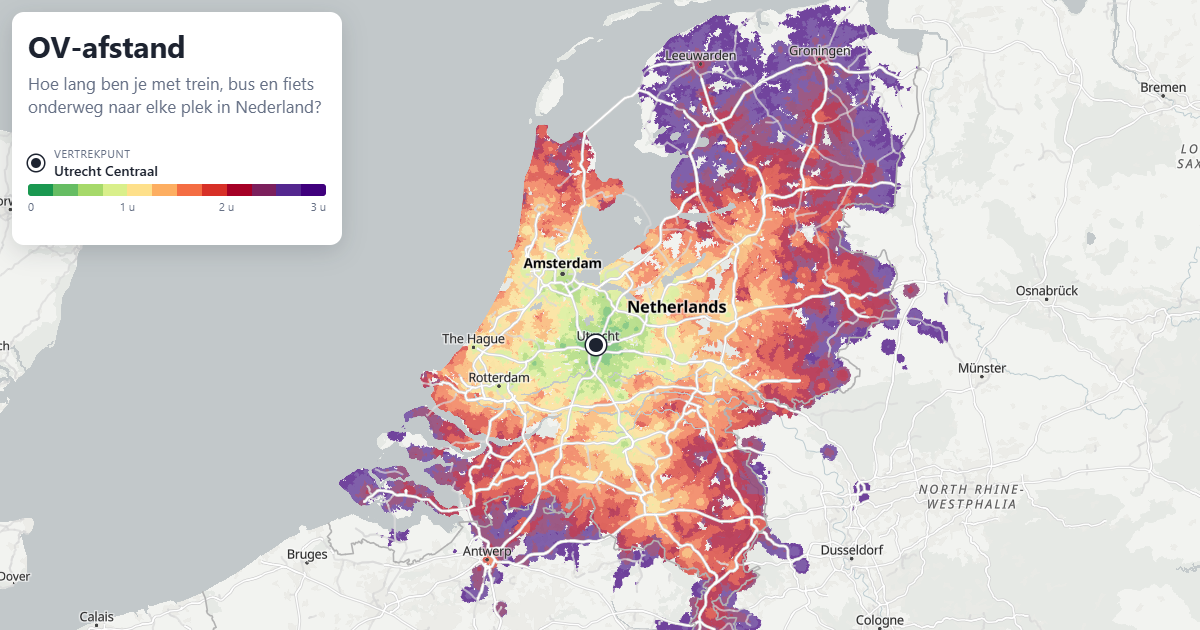
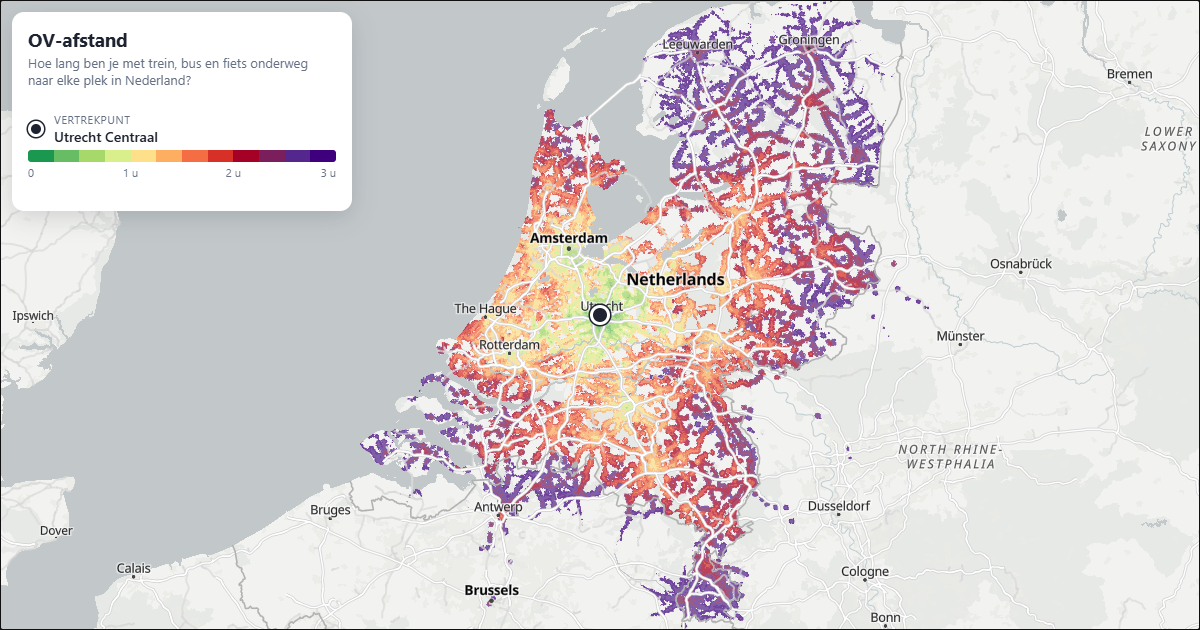
og.png opnieuw, met een script
- og.png toont nu de huidige standaardkaart (fiets bij vertrek, lopen bij
  aankomst), heel NL vanaf Utrecht C.
- web/scripts/og.mjs maakt hem met Chrome headless terwijl de preview
  draait: wacht op het fietsraster, verbergt het paneel op titel,
  vertrekpunt en legenda na, en zoomt uit tot heel NL.
- README, plan en CLAUDE.md bijgewerkt.

diff --git a/CLAUDE.md b/CLAUDE.md
@@ -8,7 +8,7 @@ Website met een kaart van NL. De heatmap toont de reistijd met OV plus fiets van
 ## Stand van zaken
 Fase 0, 1, 2 en 3 (realistisch fietsen) zijn klaar. Een eigen OSRM-server draait in WSL.
 
-De opslagvorm is gekozen: een fietsraster met 16 richtingen, 4 bits per kant, en een halte die start in 3 × 3 cellen. Dijkstra met een bucketwachtrij in de browser kost ±0,5 s voor heel NL. In proefregio's wijkt het bij <1% van de paren meer dan 5 min af van OSRM, tegen 11% voor hemelsbreed × 1,3. Het raster is gebouwd op een OSM-extract van NL plus de strook BE/DE binnen de rasterbox (`build_bike_grid.py` → `export_bike_grid.py` → `web/public/data/bike.bin.gz`, 4,25 MB). Het is ingebouwd in de web-app (`bikegrid.ts`, standaard aan). Van de 578 ponten in OSM doen er 525 mee. De rest ontbreekt door OSM zelf (laagwaterafsluiting, losse aanlegplaats). Fase 6.1 (snelle winst) is klaar op branch `fase6`: instellingen in de deellink, delen, Open Graph en favicon, uitleg, mijn locatie en voorbeeldchips. Fase 6.2 (bezoekers meten met GoatCounter, `ovafstand.goatcounter.com`) is klaar. Fase 6.3 (smartphone: bottom sheet, reisinfo in de sheet) is klaar, en werkt op een echt toestel. Daar zweeft de legenda wel boven de navigatiebalk onderin (voor later). Fase 6.4 deel 1 (uurmodel, tijdschuif) staat in main. Op branch `fase6-nacht` komen daar bij: de nachtlijnen, 48 halve uren, vloeiend afspelen (frames vooruit, overgang) en het diagram "Binnen 1 uur bereikbaar". Op branch `fase6-vergelijk` (vanaf `fase6-nacht`) staat 6.5 deel 1: twee vertrekpunten vergelijken, stand "Voor ons allebei" (max van A en B), ook met de tijdschuif. Daar staat ook 6.7 stap 1: het paneel inklappen, en de reisinfo vast in het paneel na een klik. 6.5 deel 2, de stand "Verschil" (A − B, tweekleurig), en 6.7 stap 2 (fiets bij vertrek/aankomst, anders lopen) stap 3 (kaart naar het dichtstbijzijnde IC-station) en stap 4 (zaterdag en zondag) zijn daar ook klaar. Daarmee is 6.7 af. Op branch `verkenning-4-5` (vanaf `fase6-vergelijk`) zijn fase 4 en 5 verkend, zonder wijzigingen aan de app (zie "Verkenning fase 4 en 5" in het plan). CSA kost 6–12 ms per run, en de connections per rit zijn 0,6–0,8 MB gzip per dag. BE en DE in een strook van 20 km geven +42% connections. De NL-feed bevat al de grenslijnen van De Lijn. Op branch `fase4` (vanaf `verkenning-4-5`) staat fase 4 stap 1: met een vertrektijd de keuze "Gemiddelde wachttijd" (uurmodel) of "Echte vertrektijden" (CSA, `csa.ts`), deellink `&r=1`, met kloktijden in de reisinfo. Het geheugen is gemeten ("Geheugenmeting" in het plan): de worker houdt 144 MB vast bij de start en tot ±400 MB na gebruik. De grootste posten zijn het fietsraster (82 MB), 13,5 MB per bewaarde run en de dienstregeling (35 MB per dag). Geheugen deel 1 is klaar: het fietsraster is 31 MB (één byte per kant), met exact dezelfde uitkomst, maar 10–25% trager bij grote kaarten. Deel 2 ook: `Raster.via` is Uint16, en de worker bewaart 3 resultaten en 2 runs in de cache (afspelen met vergelijken: 403 → 270 MB). Deel 3 ook: één dienstregeling tegelijk, met `dur` (Uint16) in plaats van `arr` (na gebruik 330 → 186 MB). Alles hieronder, tot en met het geheugen, staat sinds PR #8 in main. Op branch `opruimen` (vanaf `fase4`) is `main.ts` opgedeeld in modules (zie README, structuur), met `npm run check` als vaste controle. Open: `og.png` opnieuw, de startcellen opnieuw met OSRM (voor de weekendhaltes), toegang tot GTFS van De Lijn en MIVB, en fase 4/5.
+De opslagvorm is gekozen: een fietsraster met 16 richtingen, 4 bits per kant, en een halte die start in 3 × 3 cellen. Dijkstra met een bucketwachtrij in de browser kost ±0,5 s voor heel NL. In proefregio's wijkt het bij <1% van de paren meer dan 5 min af van OSRM, tegen 11% voor hemelsbreed × 1,3. Het raster is gebouwd op een OSM-extract van NL plus de strook BE/DE binnen de rasterbox (`build_bike_grid.py` → `export_bike_grid.py` → `web/public/data/bike.bin.gz`, 4,25 MB). Het is ingebouwd in de web-app (`bikegrid.ts`, standaard aan). Van de 578 ponten in OSM doen er 525 mee. De rest ontbreekt door OSM zelf (laagwaterafsluiting, losse aanlegplaats). Fase 6.1 (snelle winst) is klaar op branch `fase6`: instellingen in de deellink, delen, Open Graph en favicon, uitleg, mijn locatie en voorbeeldchips. Fase 6.2 (bezoekers meten met GoatCounter, `ovafstand.goatcounter.com`) is klaar. Fase 6.3 (smartphone: bottom sheet, reisinfo in de sheet) is klaar, en werkt op een echt toestel. Daar zweeft de legenda wel boven de navigatiebalk onderin (voor later). Fase 6.4 deel 1 (uurmodel, tijdschuif) staat in main. Op branch `fase6-nacht` komen daar bij: de nachtlijnen, 48 halve uren, vloeiend afspelen (frames vooruit, overgang) en het diagram "Binnen 1 uur bereikbaar". Op branch `fase6-vergelijk` (vanaf `fase6-nacht`) staat 6.5 deel 1: twee vertrekpunten vergelijken, stand "Voor ons allebei" (max van A en B), ook met de tijdschuif. Daar staat ook 6.7 stap 1: het paneel inklappen, en de reisinfo vast in het paneel na een klik. 6.5 deel 2, de stand "Verschil" (A − B, tweekleurig), en 6.7 stap 2 (fiets bij vertrek/aankomst, anders lopen) stap 3 (kaart naar het dichtstbijzijnde IC-station) en stap 4 (zaterdag en zondag) zijn daar ook klaar. Daarmee is 6.7 af. Op branch `verkenning-4-5` (vanaf `fase6-vergelijk`) zijn fase 4 en 5 verkend, zonder wijzigingen aan de app (zie "Verkenning fase 4 en 5" in het plan). CSA kost 6–12 ms per run, en de connections per rit zijn 0,6–0,8 MB gzip per dag. BE en DE in een strook van 20 km geven +42% connections. De NL-feed bevat al de grenslijnen van De Lijn. Op branch `fase4` (vanaf `verkenning-4-5`) staat fase 4 stap 1: met een vertrektijd de keuze "Gemiddelde wachttijd" (uurmodel) of "Echte vertrektijden" (CSA, `csa.ts`), deellink `&r=1`, met kloktijden in de reisinfo. Het geheugen is gemeten ("Geheugenmeting" in het plan): de worker houdt 144 MB vast bij de start en tot ±400 MB na gebruik. De grootste posten zijn het fietsraster (82 MB), 13,5 MB per bewaarde run en de dienstregeling (35 MB per dag). Geheugen deel 1 is klaar: het fietsraster is 31 MB (één byte per kant), met exact dezelfde uitkomst, maar 10–25% trager bij grote kaarten. Deel 2 ook: `Raster.via` is Uint16, en de worker bewaart 3 resultaten en 2 runs in de cache (afspelen met vergelijken: 403 → 270 MB). Deel 3 ook: één dienstregeling tegelijk, met `dur` (Uint16) in plaats van `arr` (na gebruik 330 → 186 MB). Alles hieronder, tot en met het geheugen, staat sinds PR #8 in main. Op branch `opruimen` (vanaf `fase4`) is `main.ts` opgedeeld in modules (zie README, structuur), met `npm run check` als vaste controle. Open: de startcellen opnieuw met OSRM (voor de weekendhaltes), toegang tot GTFS van De Lijn en MIVB, en fase 4/5.
 
 **Afspraak:** na elke afgeronde stap de resultaten en de volgende stap bijwerken in ONTWIKKELPLAN.md, en de stand van zaken hier.
 
@@ -69,7 +69,7 @@ De opslagvorm is gekozen: een fietsraster met 16 richtingen, 4 bits per kant, en
 - **Vergelijken (6.5):** punt B (`pointB`, deellink `&p2=lat,lon,naam`). De worker rekent A en B apart (`cachedRun`, de laatste vier runs) en kleurt per cel de langste van de twee ("Voor ons allebei") of het verschil A − B ("Verschil", `compareMode`, `colorizeDiff` in `raster.ts`; wisselen rekent niets opnieuw). `editing` bepaalt welk punt klikken, zoeken en de voorbeelden verplaatsen; klik op rij A of B om te wisselen.
 - **IC-kaart (6.7 stap 3):** `source` = `"point"` of `"ic"` (deellink `&k=ic`). Bij `"ic"` start de zoektocht met tijd 0 op alle IC-stations (`icStations` in `worker.ts`: overdag een trein "Intercity…", niet `IFF:NS_INT`; 95 stuks). Het laatste stuk volgt dan `bikeStart`/`directMaxKm`, want het ligt aan de kant van de plek zelf. De reisinfo draait de route om (`icHtml`). Zoeken toont daar de reisinfo in plaats van het vertrekpunt te verplaatsen.
 - **Deellink:** `#lat,lon,naam&w=…&v=…&b=…&d=…&t=…&f=…&u=…&r=1&s=…&a=…&dag=za&k=ic&p2=…&m=diff`, met alleen afwijkingen van `DEFAULTS` in `main.ts`. Ongeldige waarden worden genegeerd (zie README).
-- `og:image` wijst naar de volledige Pages-URL (`corvanessen.github.io/OVafstand/og.png`).
+- `og:image` wijst naar de volledige Pages-URL (`corvanessen.github.io/OVafstand/og.png`). `og.png` maak je opnieuw met `node web/scripts/og.mjs` terwijl de preview draait (zie README).
 - **Bezoekers:** GoatCounter via `track("naam")` in `main.ts`. Stuur alleen namen van gebeurtenissen mee, nooit coördinaten of adressen. Op localhost telt het niet.
 
 ## Verifiëren

diff --git a/README.md b/README.md
@@ -19,6 +19,7 @@ pipeline/            Python: GTFS → graaf → binaire bestanden voor de browse
 web/                 Vite + TypeScript + MapLibre
   bench/check.ts     vaste controle in Node: npm run check (validatie, reisinfo-HTML)
   bench/             verder: metingen in Node (CSA, geheugen, fietsraster), bundelen met rolldown
+  scripts/og.mjs     og.png (deelvoorbeeld) opnieuw maken met Chrome headless
   -- rekenkern (in de worker) --
   src/worker.ts      Web Worker: laadt de data, rekent kaarten, legt routes uit
   src/router.ts      graph.bin en de dagen laden, Dijkstra, route-uitleg
@@ -191,7 +192,7 @@ Het vertrekpunt en de instellingen staan in de hash, bijvoorbeeld `#52.08940,5.1
 
 Een waarde die het invoerveld niet kan tonen, wordt genegeerd. Oude links met alleen `#lat,lon,naam` werken nog.
 
-`og.png` (het deelvoorbeeld, 1200 × 630) is een screenshot van de site vanaf Utrecht C. Na een grote wijziging van de kaart maak je hem opnieuw.
+`og.png` (het deelvoorbeeld, 1200 × 630) is een screenshot van de site vanaf Utrecht C, met de standaardinstellingen. Na een grote wijziging van de kaart maak je hem opnieuw: `npm --prefix web run build`, dan `npm --prefix web run preview` in een tweede terminal, en `node web/scripts/og.mjs`. Dat script opent Chrome headless, wacht op de kaart met het fietsraster, verbergt in het paneel alles behalve de titel, het vertrekpunt en de legenda, en zoomt uit tot heel NL.
 
 ### Bezoekers
 

diff --git a/ONTWIKKELPLAN.md b/ONTWIKKELPLAN.md
@@ -258,7 +258,7 @@ Fase 3, realistisch fietsen:
   - ~~fase 4, stap 3: testen op een echte telefoon.~~ Klaar (16 okt 2026): het werkt (gebruiker);
   - bij De Lijn en MIVB toegang tot de actuele GTFS aanvragen (voor fase 5).
 - **Daarna, nog open:**
-  - `og.png` opnieuw (de standaardkaart is veranderd sinds 6.7 stap 2);
+  - ~~`og.png` opnieuw (de standaardkaart is veranderd sinds 6.7 stap 2).~~ Klaar (16 okt 2026), nu met een script: `web/scripts/og.mjs` (zie README);
   - de legenda onderaan de sheet zweeft op de telefoon boven de navigatiebalk onderin (gemeld door de gebruiker na de test op een echt toestel, 16 okt 2026);
   - de startcellen opnieuw met OSRM voor de 459 weekendhaltes;
   - fase 5, de strook van 20 km (NMBS, TEC, Duitsland);
@@ -884,7 +884,7 @@ Op branch `fase6-vergelijk`.
 | lopen aan beide kanten | 28.736 | 55 min |
 
   Het aantal haltes hangt alleen af van het eerste stuk. De kaart wordt met lopen bij aankomst duidelijk vlekkeriger buiten de steden. Ook hemelsbreed (`f=0`), een ongeldige `s=2` en `hashchange` zijn getest. Er waren geen consolefouten.
-- **Nog doen:** `og.png` opnieuw maken, want de standaardkaart is veranderd.
+- **Nog doen:** `og.png` opnieuw maken, want de standaardkaart is veranderd. (Gedaan op 16 okt 2026 met `web/scripts/og.mjs`.)
 
 ### Resultaten fase 6.7, stap 3: naar het dichtstbijzijnde IC-station (15 okt 2026)
 
